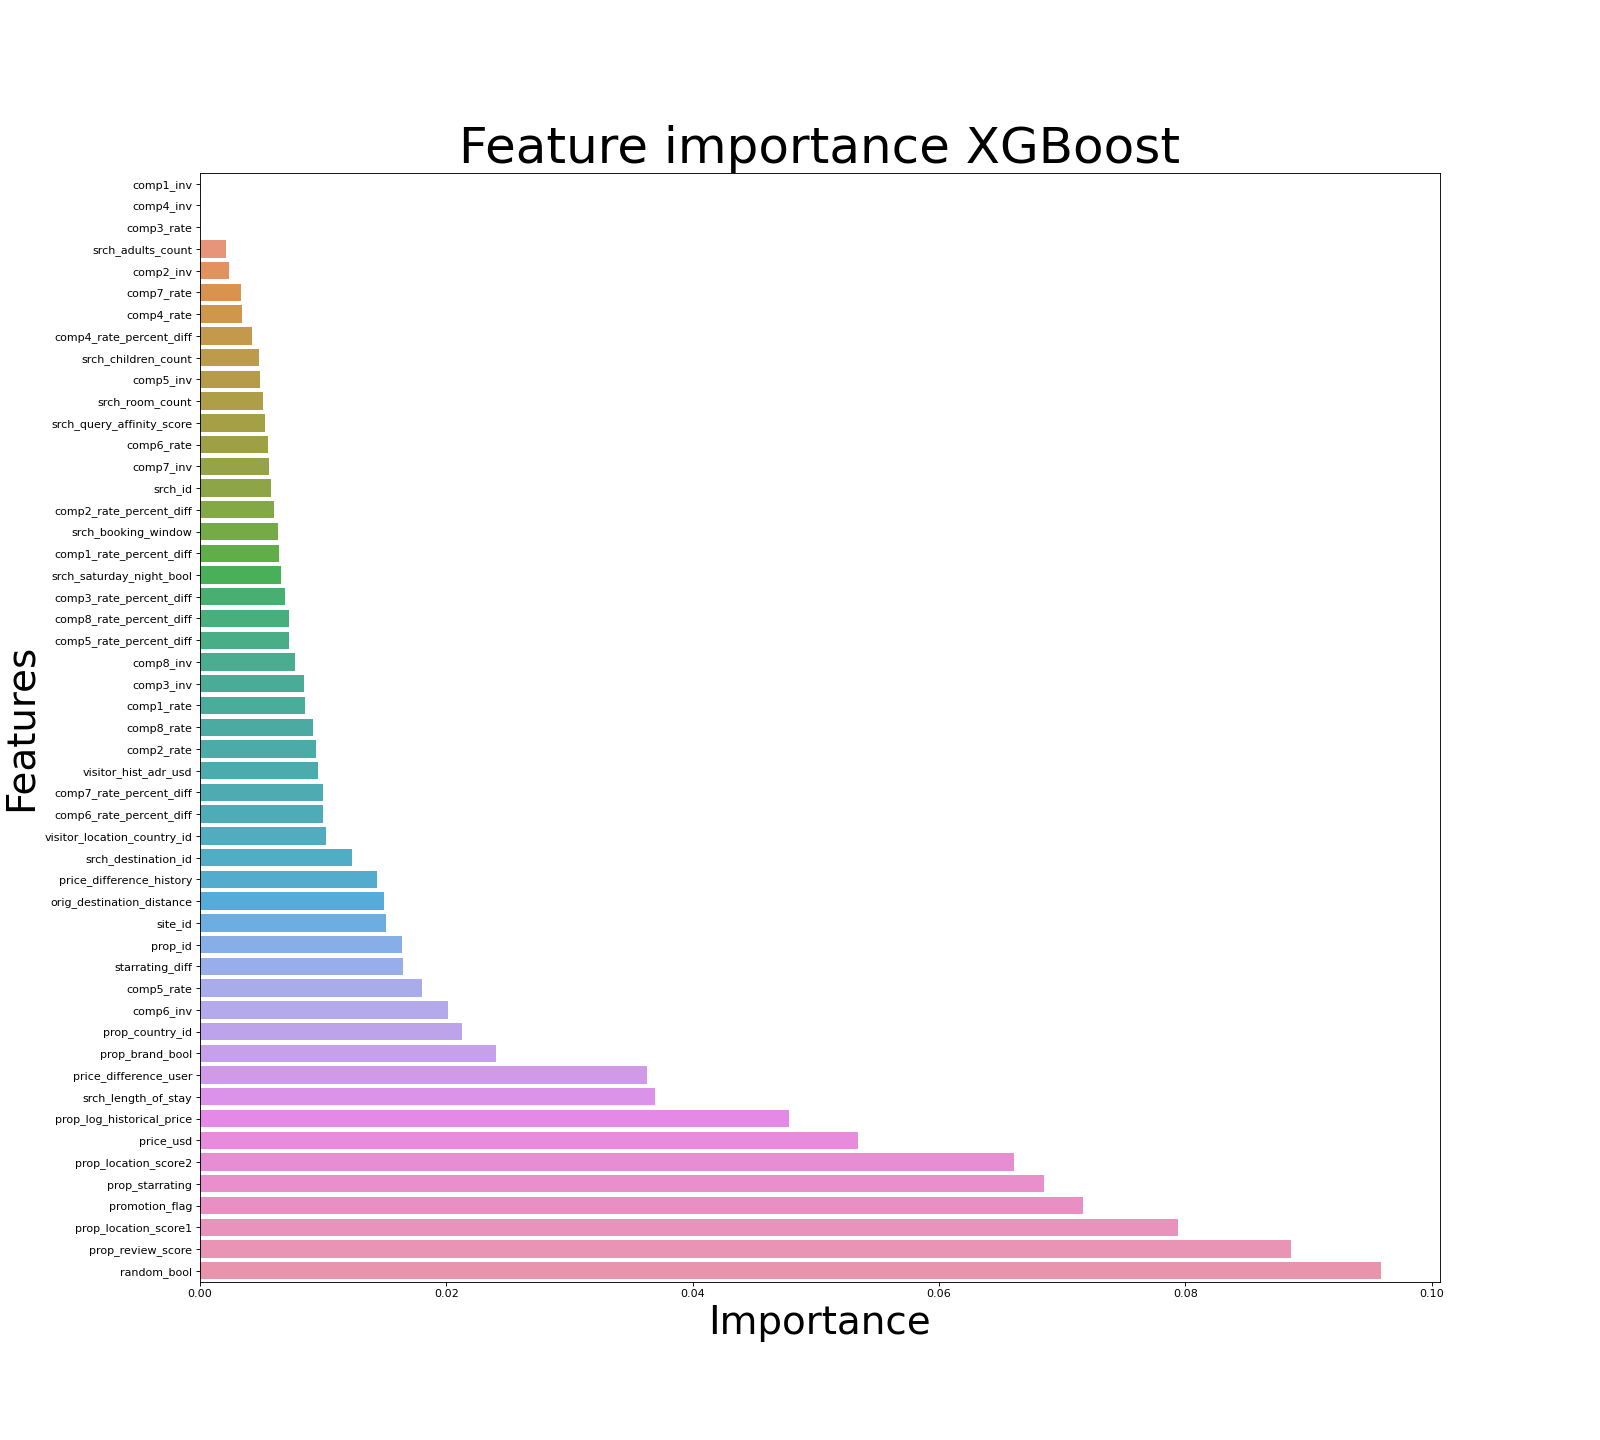
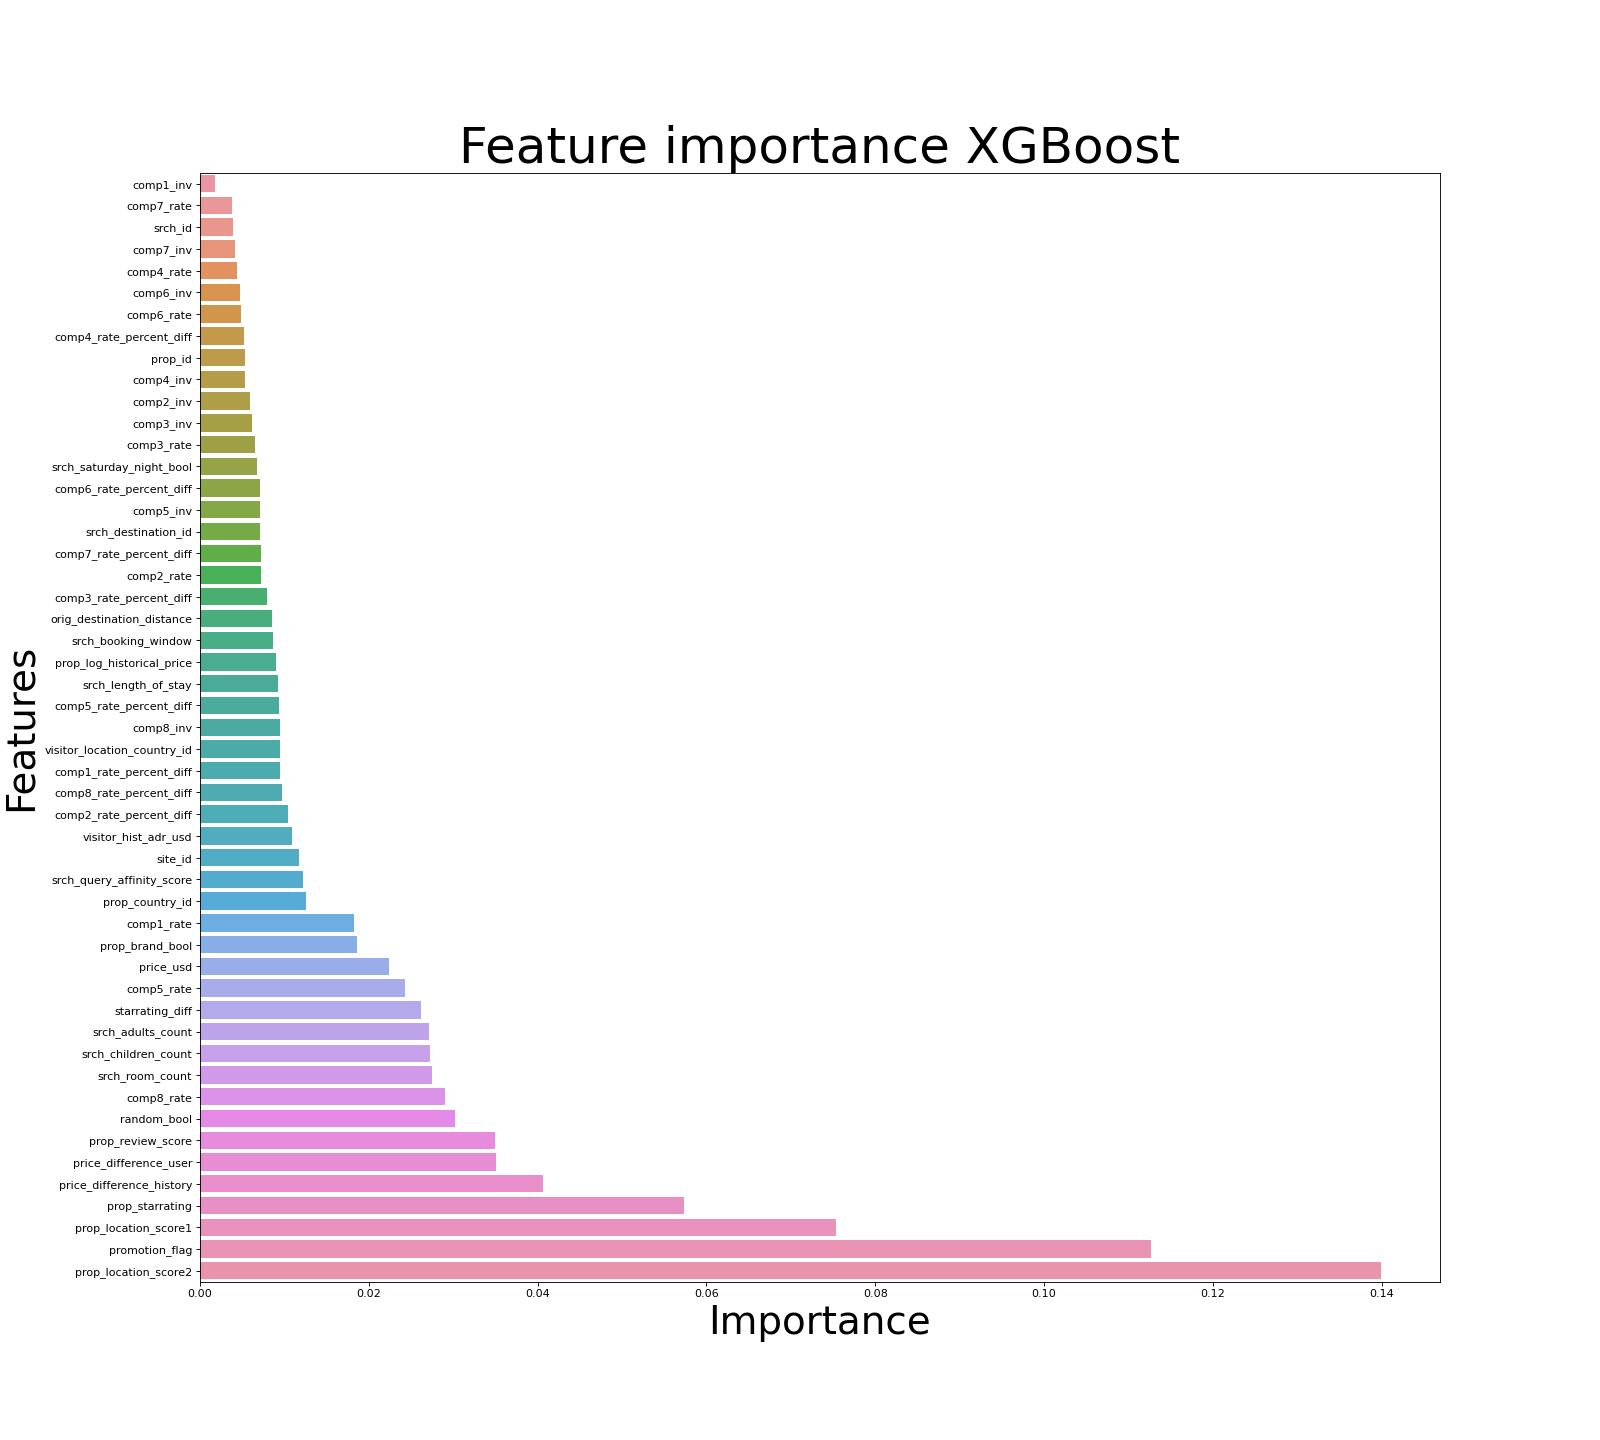
classification instead of regression

diff --git a/modeling.py b/modeling.py
@@ -4,14 +4,14 @@ import pandas as pd
 import numpy as np
 from sklearn.model_selection import train_test_split
 from sklearn.preprocessing import MinMaxScaler
-from sklearn.multioutput import MultiOutputRegressor
+from sklearn.multioutput import MultiOutputRegressor, MultiOutputClassifier
 from sklearn.metrics import mean_squared_error
 from sklearn.linear_model import Ridge
 from sklearn.model_selection import RepeatedKFold
 from keras.models import Sequential
 from keras.layers import Dense,Dropout
 from keras.callbacks import ModelCheckpoint,EarlyStopping
-from xgboost import XGBRegressor
+from xgboost import XGBRegressor,XGBClassifier
 from sklearn.model_selection import GridSearchCV
 from keras.layers import Dropout
 from keras.wrappers.scikit_learn import KerasRegressor
@@ -25,110 +25,113 @@ print("Reading data...")
 data = pd.read_csv("feature_engineering.csv")
 print(data.head(5))
 
-data = data.drop(columns=["click_bool","booking_bool","date_time","position"])
+target1 = "click_bool"
+target2 = "booking_bool"
+data = data.drop(columns=["prob_booked","prob_clicked","date_time","position"])
 data.replace([np.inf, -np.inf], int(0), inplace=True)
 
 #normalize data
 min_max_scaler = MinMaxScaler()
-X,y = data.drop(["prob_booked","prob_clicked"],axis=1), data.loc[:,["prob_booked","prob_clicked"]]
+X,y = data.drop(["click_bool","booking_bool"],axis=1), data.loc[:,["click_bool","booking_bool"]]
 X[['price_usd',"price_difference_user"]] = min_max_scaler.fit_transform(X[['price_usd',"price_difference_user"]])
 # print(X.columns)
 # print(len(X.columns))
 
-X_train, X_val_and_test, Y_train, Y_val_and_test = train_test_split(X, y, test_size=0.2)
-X_val, X_test, Y_val, Y_test = train_test_split(X_val_and_test, Y_val_and_test, test_size=0.5)
+X_train, X_test, Y_train, Y_test = train_test_split(X, y, test_size=0.1)
+# X_val, X_test, Y_val, Y_test = train_test_split(X_val_and_test, Y_val_and_test, test_size=0.5)
 
 #Create Ridge Regressor model
-print("Ridge model...")
-regressor = Ridge(alpha=100)
-classifier_ridge = MultiOutputRegressor(regressor)
-classifier_ridge.fit(X_train, Y_train)
-
-y_train_pred1 = classifier_ridge.predict(X_train)
-y_pred1 = classifier_ridge.predict(X_test)
-train_mse1 = mean_squared_error(y_train_pred1, Y_train)
-test_mse1 = mean_squared_error(y_pred1, Y_test)
-train_rmse1 = np.sqrt(train_mse1)
-test_rmse1 = np.sqrt(test_mse1)
-print('Train RMSE: %.4f' % train_rmse1)
-print('Test RMSE: %.4f' % test_rmse1)
-
-print("Saving model to disk...")
-filename = 'finalized_model_ridge.sav'
-pickle.dump(classifier_ridge, open(filename, 'wb'))
-print("Model saved!")
-
-#Create Neural Network model
-
-print("Deep learning...")
-model = Sequential()
-model.add(Dense(X_train.shape[1], input_dim=X_train.shape[1], activation='linear', kernel_initializer = 'normal'))
-model.add(Dense(60, activation='linear', kernel_initializer = 'normal'))
-model.add(Dropout(0.1))
-model.add(Dense(128, activation='linear', kernel_initializer = 'normal'))
-model.add(Dropout(0.2))
-model.add(Dense(128, activation='linear', kernel_initializer = 'normal'))
-model.add(Dropout(0.3))
-model.add(Dense(60, activation='linear', kernel_initializer = 'normal'))
-model.add(Dropout(0.2))
-model.add(Dense(2, activation='sigmoid', kernel_initializer= 'normal'))
-# compile the keras model
-model.compile(loss='mean_squared_error', optimizer='sgd', metrics = ['mean_absolute_error'])
-# checkpoint
-filepath="weights-improvement-{epoch:02d}-{val_loss:.2f}.hdf5"
-checkpoint = ModelCheckpoint(filepath, monitor='val_loss', verbose=1, save_best_only=True, mode='max')
-es = EarlyStopping(monitor='val_loss', mode='min', verbose=1, patience=10)
-callbacks_list = [es]
-print(model.summary())
-#fit the keras model on the dataset
-hist = model.fit(X_train, Y_train,batch_size=10, epochs=50,validation_data=(X_val, Y_val),callbacks=callbacks_list,verbose=1)
-Y_predicted = model.predict(X_test)
-mse = mean_squared_error(Y_test, Y_predicted)
-rmse = np.sqrt(mse)
-
-print('MSE : ',mse)
-print('RMSE : ', rmse)
-
-plt.plot(hist.history['loss'])
-plt.plot(hist.history['val_loss'])
-plt.title('Model loss')
-plt.ylabel('Loss')
-plt.xlabel('Epoch')
-plt.legend(['Train', 'Val'], loc='upper right')
-plt.savefig("loss_model.png")
-plt.show()
-
-# serialize model to JSON
-model_json = model.to_json()
-with open("model.json", "w") as json_file:
-    json_file.write(model_json)
-# serialize weights to HDF5
-model.save_weights("model.h5")
-print("Saved model to disk")
+# print("Ridge model...")
+# regressor = Ridge(alpha=100)
+# classifier_ridge = MultiOutputRegressor(regressor)
+# classifier_ridge.fit(X_train, Y_train)
+#
+# y_train_pred1 = classifier_ridge.predict(X_train)
+# y_pred1 = classifier_ridge.predict(X_test)
+# train_mse1 = mean_squared_error(y_train_pred1, Y_train)
+# test_mse1 = mean_squared_error(y_pred1, Y_test)
+# train_rmse1 = np.sqrt(train_mse1)
+# test_rmse1 = np.sqrt(test_mse1)
+# print('Train RMSE: %.4f' % train_rmse1)
+# print('Test RMSE: %.4f' % test_rmse1)
+#
+# print("Saving model to disk...")
+# filename = 'finalized_model_ridge.sav'
+# pickle.dump(classifier_ridge, open(filename, 'wb'))
+# print("Model saved!")
+#
+# #Create Neural Network model
+#
+# print("Deep learning...")
+# model = Sequential()
+# model.add(Dense(X_train.shape[1], input_dim=X_train.shape[1], activation='linear', kernel_initializer = 'normal'))
+# model.add(Dense(60, activation='linear', kernel_initializer = 'normal'))
+# model.add(Dropout(0.1))
+# model.add(Dense(128, activation='linear', kernel_initializer = 'normal'))
+# model.add(Dropout(0.2))
+# model.add(Dense(128, activation='linear', kernel_initializer = 'normal'))
+# model.add(Dropout(0.3))
+# model.add(Dense(60, activation='linear', kernel_initializer = 'normal'))
+# model.add(Dropout(0.2))
+# model.add(Dense(2, activation='sigmoid', kernel_initializer= 'normal'))
+# # compile the keras model
+# model.compile(loss='mean_squared_error', optimizer='sgd', metrics = ['mean_absolute_error'])
+# # checkpoint
+# filepath="weights-improvement-{epoch:02d}-{val_loss:.2f}.hdf5"
+# checkpoint = ModelCheckpoint(filepath, monitor='val_loss', verbose=1, save_best_only=True, mode='max')
+# es = EarlyStopping(monitor='val_loss', mode='min', verbose=1, patience=10)
+# callbacks_list = [es]
+# print(model.summary())
+# #fit the keras model on the dataset
+# hist = model.fit(X_train, Y_train,batch_size=10, epochs=50,validation_data=(X_val, Y_val),callbacks=callbacks_list,verbose=1)
+# Y_predicted = model.predict(X_test)
+# mse = mean_squared_error(Y_test, Y_predicted)
+# rmse = np.sqrt(mse)
+#
+# print('MSE : ',mse)
+# print('RMSE : ', rmse)
+#
+# plt.plot(hist.history['loss'])
+# plt.plot(hist.history['val_loss'])
+# plt.title('Model loss')
+# plt.ylabel('Loss')
+# plt.xlabel('Epoch')
+# plt.legend(['Train', 'Val'], loc='upper right')
+# plt.savefig("loss_model.png")
+# plt.show()
+#
+# # serialize model to JSON
+# model_json = model.to_json()
+# with open("model.json", "w") as json_file:
+#     json_file.write(model_json)
+# # serialize weights to HDF5
+# model.save_weights("model.h5")
+# print("Saved model to disk")
 
 #create new a XBC model
 print("XBC...")
-eval_set = [(X_test,Y_test)]
-XBC = XGBRegressor(booster = 'gbtree',learning_rate =0.01,
- n_estimators=5000,max_depth=4,gamma=0.2,eval_metric="rmse",
-                   early_stopping_rounds = 50,eval_set=eval_set,verbose=True)
-classifier_XBC = MultiOutputRegressor(XBC)
+# eval_set = [(X_test,Y_test)]
+XBC = XGBClassifier(booster = 'gbtree',learning_rate =0.01,
+ n_estimators=5000,max_depth=4,gamma=0.2,
+                   early_stopping_rounds = 50,use_label_encoder=False)
+classifier_XBC = MultiOutputClassifier(XBC)
 classifier_XBC.fit(X_train, Y_train)
 
 print("Saving model to disk...")
-filename = 'finalized_model_XBC.sav'
+filename = 'finalized_model_XBC_bool.sav'
 pickle.dump(classifier_XBC, open(filename, 'wb'))
 print("Model saved!")
 
 # evaluate model
-y_train_pred1 = classifier_XBC.predict(X_train)
-y_pred1 = classifier_XBC.predict(X_test)
-train_mse1 = mean_squared_error(y_train_pred1, Y_train)
-test_mse1 = mean_squared_error(y_pred1, Y_test)
-train_rmse1 = np.sqrt(train_mse1)
-test_rmse1 = np.sqrt(test_mse1)
-print('Train RMSE: %.4f' % train_rmse1)
-print('Test RMSE: %.4f' % test_rmse1)
+# y_train_pred1 = classifier_XBC.predict(X)
+# y_pred1 = classifier_XBC.predict(X_test)
+# train_mse1 = mean_squared_error(y_train_pred1, y)
+# # test_mse1 = mean_squared_error(y_pred1, Y_test)
+# train_rmse1 = np.sqrt(train_mse1)
+# # test_rmse1 = np.sqrt(test_mse1)
+# print('Train RMSE: %.4f' % train_rmse1)
+# # print('Test RMSE: %.4f' % test_rmse1)
+print(classifier_XBC.score(X_test,Y_test))
 
 print("Importance XBC...")
 feature_importances = pd.DataFrame(classifier_XBC.estimators_[0].feature_importances_,index = X_train.columns,columns=['importance']).sort_values('importance')

diff --git a/submission_file_classification.py b/submission_file_classification.py
@@ -1,0 +1,81 @@
+import pandas as pd
+import pickle
+import numpy as np
+from sklearn.preprocessing import MinMaxScaler
+from tqdm import tqdm
+import time
+
+
+start_time = time.time()
+#Loading test data
+print("Reading data...")
+data = pd.read_csv("feature_engineering_test.csv")
+print(data.head(5))
+print(data.columns)
+print(len(data.columns))
+
+data = data.drop(columns=["date_time"])
+data.replace([np.inf, -np.inf], int(0), inplace=True)
+min_max_scaler = MinMaxScaler()
+data[['price_usd',"price_difference_user"]] = min_max_scaler.fit_transform(data[['price_usd',"price_difference_user"]])
+
+# # load the model from disk
+print("Loading model...")
+filename = 'finalized_model_XBC_bool.sav'
+loaded_model = pickle.load(open(filename, 'rb'))
+
+
+#Prediction
+print("Loaded! Now, predicting...")
+pred = loaded_model.predict_proba(data)
+print(pred)
+
+#Save prediction
+print("Saving prediction...")
+open_file = open("pred.pkl","wb")
+pickle.dump(pred,open_file)
+open_file.close()
+
+#Load prediction
+print("Loading file...")
+open_file = open("pred.pkl","rb")
+loaded_pred = pickle.load(open_file)
+open_file.close()
+#
+# print(loaded_pred)
+# print(len(loaded_pred))
+
+#Create submission file
+# print(type(loaded_pred))
+# print(loaded_pred[0][1][1])
+
+# d1 = {"prob_clicked":loaded_pred[0],"prob_booked":loaded_pred[1]}
+df1 = pd.DataFrame(loaded_pred[0],columns=["prob_clicked_0","prob_clicked_1"])
+df2 = pd.DataFrame(loaded_pred[1],columns=["prob_booked_0","prob_booked_1"])
+df3 = pd.DataFrame({"prob_clicked":df1["prob_clicked_1"],"prob_booked":df2["prob_booked_1"]})
+
+print(df3)
+
+submission = pd.DataFrame({"srch_id":data["srch_id"],"prop_id":data["prop_id"],"prob_clicked":df3["prob_clicked"],"prob_booked":df3["prob_booked"]})
+print(submission)
+
+def relevance_grade(row):
+    value = row["prob_clicked"]*1 + row["prob_booked"]*5
+    return value
+
+
+print("Generating relevance grade...")
+submission["expected_relevance_grade"] = submission.apply(lambda row: relevance_grade(row), axis=1)
+print(submission.head(10))
+
+submission.to_csv("submission.csv",index=False)
+
+#Load submission
+submission = pd.read_csv("submission.csv")
+
+submission = submission.sort_values(by=['srch_id','expected_relevance_grade'], ascending=[True,False])
+print(submission)
+submission_final = submission.loc[:,['srch_id','prop_id']]
+submission_final.to_csv("send.csv", index=False)
+print("Done! You can submit the file!")
+print("%s minutes" %((time.time() - start_time)/60))

diff --git a/generate_submission.py b/generate_submission.py
@@ -1,6 +1,7 @@
 import pandas as pd
 import pickle
 import numpy as np
+from sklearn.preprocessing import MinMaxScaler
 from tqdm import tqdm
 
 #Loading test data
@@ -12,6 +13,8 @@ print(len(data.columns))
 
 data = data.drop(columns=["date_time"])
 data.replace([np.inf, -np.inf], int(0), inplace=True)
+min_max_scaler = MinMaxScaler()
+data[['price_usd',"price_difference_user"]] = min_max_scaler.fit_transform(data[['price_usd',"price_difference_user"]])
 
 # load the model from disk
 print("Loading model...")
@@ -46,7 +49,7 @@ submission = pd.DataFrame({"srch_id":data["srch_id"],"prop_id":data["prop_id"],"
 print(submission)
 
 def relevance_grade(row):
-    value = row["prob_clicked"]*1 + row["prob_booked"]*5 + (row["prob_booked"]*row["prob_clicked"])*6
+    value = row["prob_clicked"]*1 + row["prob_booked"]*5
     # if ((row["click_bool"] == 0) & (row["booking_bool"] == 0)):
     #     return 0
     # if ((row["click_bool"] == 1) & (row["booking_bool"] == 0)):
